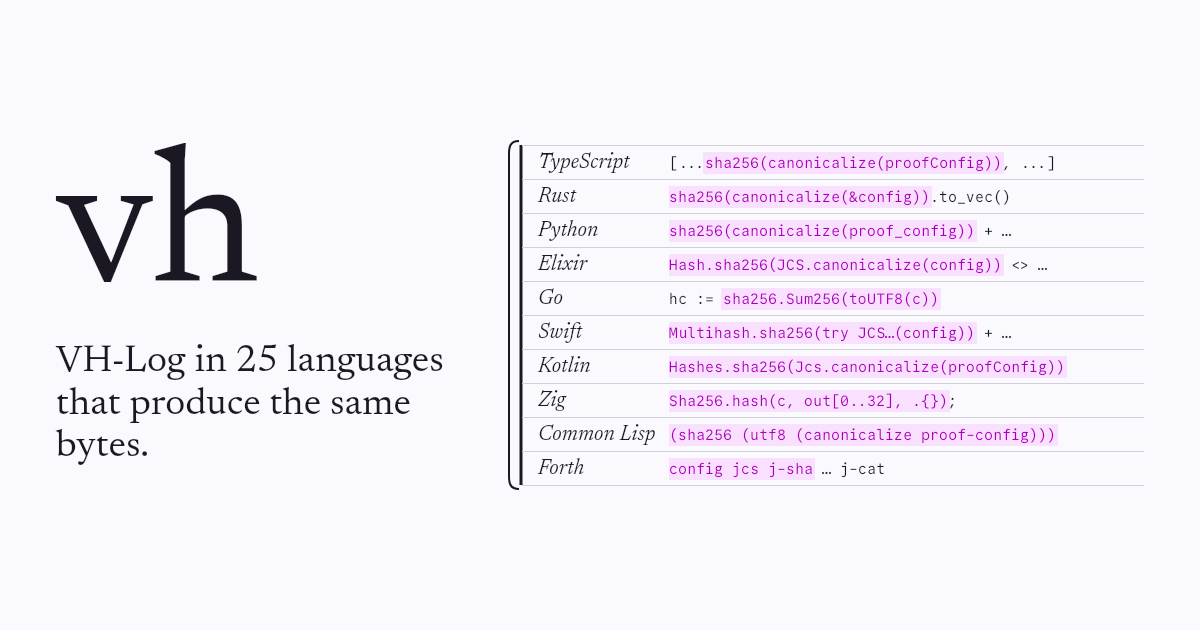
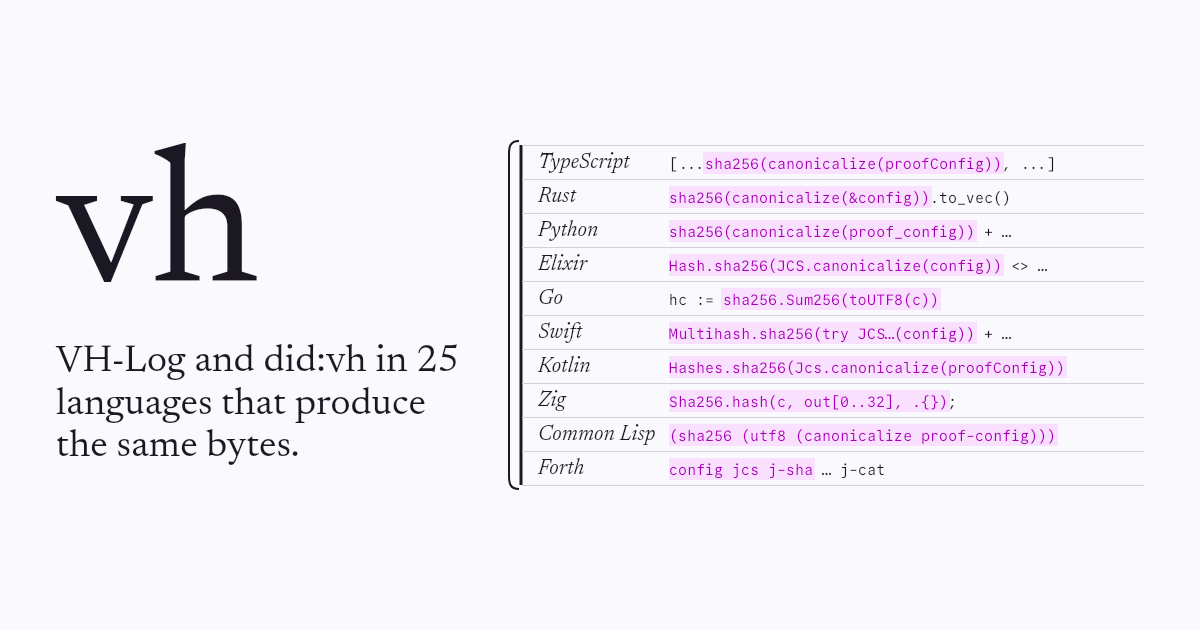
Present did:vh on the site (#24)
- Title, description, social card and masthead: VH-Log and did:vh
- New 'did:vh, on the same log' section: what the specialisation changes,
  the offline resolvers, and the did:vh check counts read from the vectors
  and README matrix
- Spec notes split into VH-Log and did:vh; the witnessing clarification is
  listed among the profile's choices
- 'Add a language' and the colophon point at the did:vh spec and profile, and
  name all six clean-room implementations
- Re-rendered og.png

diff --git a/site/styles.css b/site/styles.css
@@ -387,6 +387,17 @@ h2 { font-size: var(--t-h2); font-weight: 480; line-height: 1.02; letter-spacing
 .choices { padding-left: 1.1em; display: grid; gap: var(--s-2); }
 .choices li::marker { color: var(--ink-2); }
 .choices code { font-size: 0.8125rem; }
+.didvh .section-lede code, .didvh .open-grid code { font-size: 0.8125rem; }
+.didvh .total { font-size: var(--t-small); color: var(--ink-2); }
+.didvh .total .num { color: var(--ink); font-size: 1.25rem; }
+.specialise { margin: 0; }
+.specialise table { width: 100%; border-collapse: collapse; font-size: var(--t-small); }
+.specialise caption { caption-side: bottom; text-align: left; font-style: italic; color: var(--ink-2); padding-top: var(--s-3); }
+.specialise th, .specialise td { text-align: left; vertical-align: top; padding: var(--s-2) var(--s-3) var(--s-2) 0; border-top: 1px solid var(--rule); }
+.specialise thead th { font-weight: 620; border-top: 0; }
+.specialise thead td { border-top: 0; }
+.specialise tbody th { font-weight: 450; color: var(--ink-2); white-space: nowrap; }
+.specialise code { font-size: 0.8125rem; overflow-wrap: anywhere; }
 
 /* ---- Add a language ----------------------------------------------------------------- */
 

diff --git a/site/og.html b/site/og.html
@@ -25,7 +25,7 @@ mark { background: var(--hl); color: var(--accent); border-radius: 3px; box-shad
 <body>
 <div>
   <h1>vh</h1>
-  <p>VH&#8209;Log in 25 languages that produce the same bytes.</p>
+  <p>VH&#8209;Log and did:vh in 25 languages that produce the same bytes.</p>
 </div>
 <div class="system">
   <div class="staff"><i>TypeScript</i><code>[...<mark>sha256(canonicalize(proofConfig))</mark>, ...]</code></div>
